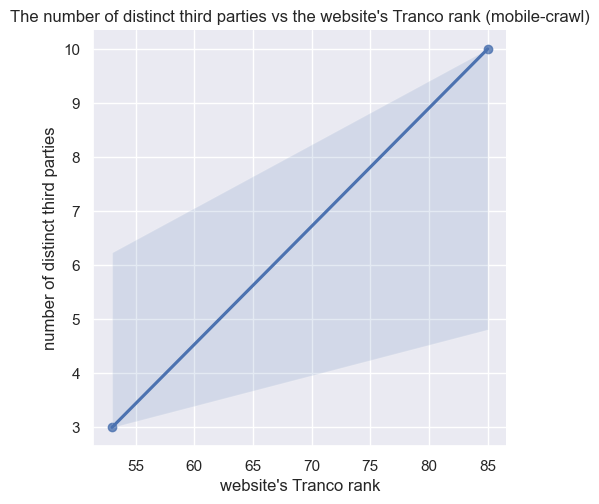
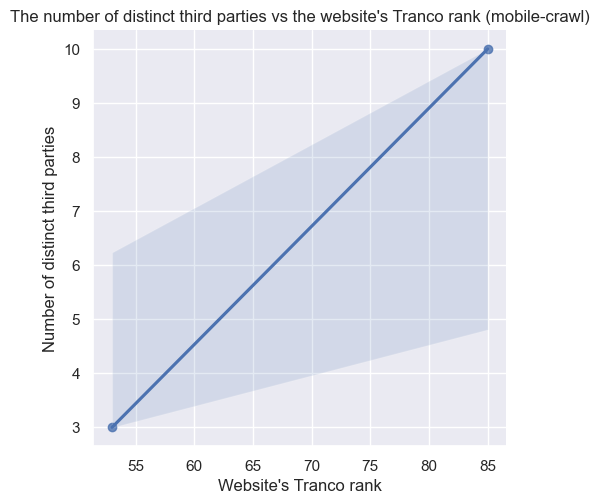
Add table for question 5, minor fixes for plots

Changed region(s): [[0.0601, 0.2381, 0.0902, 0.7143], [0.3606, 0.9524, 0.6311, 0.9821]]

diff --git a/analysis/analyse.py b/analysis/analyse.py
@@ -181,7 +181,8 @@ def generate_box_plot(dataframe, header, crawl_mode, metric):
     plt.xlabel("Crawl mode")
     plt.ylabel(metric.capitalize())
     plt.savefig(f"data/box_plot_{header}.png", bbox_inches='tight')
-    plt.show()
+    # plt.show()
+    plt.close()
 
 
 def generate_entry_table_question_3(dataframe, header):
@@ -330,8 +331,10 @@ def prevalence_third_party_trackers(prevalence_third_party):
     return third_party_trackers.most_common(10)
 
 
-def generate_table_question(questionnr, target, top_ten_desktop, top_ten_mobile):
-    """Generate a LaTeX table TODO
+def generate_table_question(questionnr, target, top_ten_desktop, top_ten_mobile, label=""):
+    """Generate a LaTeX table for questions 4, 5 and 6
+
+    TODO: change loop to range(10) -> currently len because otherwise errors occur :)
 
     Parameters
     ----------
@@ -363,14 +366,14 @@ def generate_table_question(questionnr, target, top_ten_desktop, top_ten_mobile)
         "\multicolumn{1}{l|}{\\textbf{%s}} & \\textbf{\# websites} \\\\ \hline \n" % (target.capitalize()))
 
     # Write the data of the top ten for both mobile and desktop to the table
-    for i in range(10):
+    for i in range(len(top_ten_desktop)):
         entry = ("\\textbf{%d} & \multicolumn{1}{l|}{%s} & " % (i + 1, top_ten_desktop[i][0]) +
                 "\multicolumn{1}{r|}{%d} & \multicolumn{1}{l|}{%s} & " % (top_ten_desktop[i][1], top_ten_mobile[i][0]) +
                 "\multicolumn{1}{r|}{%d} \\\\ \hline \n" % (top_ten_mobile[i][1]))
         file.write(entry)
 
     file.write("\end{tabular} \n")
-    file.write("\label{tab:Top10_q%d} \n" % (questionnr))
+    file.write("\label{tab:%sTop10} \n" % (re.sub(r'(Third-Party| Domain)', '', target.title())))
     file.write("\end{table}")
 
     # Close the file
@@ -405,12 +408,13 @@ def generate_scatter_plot(mode, third_parties_list, crawl_mode, tranco_ranks_lis
             y_axis.append(len(third_parties))
 
     df = pd.DataFrame(list(zip(x_axis, y_axis)),
-                      columns=["website's Tranco rank", plot_text])
-    sns.lmplot(x="website's Tranco rank", y=plot_text, data=df)
+                      columns=["Website's Tranco rank", plot_text])
+    sns.lmplot(x="Website's Tranco rank", y=plot_text, data=df)
 
-    plt.title(f"The {plot_text} vs the website's Tranco rank ({mode}-crawl)")
+    plt.title(f"The {plot_text.lower()} vs the website's Tranco rank ({mode}-crawl)")
     plt.savefig(f"data/scatter_plot_{png_text}_{mode}.png", bbox_inches='tight')
-    plt.show()  # use plt.show(block=True) if the window closes too soon
+    # plt.show()  # use plt.show(block=True) if the window closes too soon
+    plt.close()
 
 
 def generate_scatter_plots_question_7(dataframe):
@@ -421,8 +425,8 @@ def generate_scatter_plots_question_7(dataframe):
     crawl_mode = dataframe["crawl_mode"]
     tranco_ranks_list = list(dataframe["nr_requests"])
 
-    generate_scatter_plot("desktop", third_parties_list, crawl_mode, tranco_ranks_list, "third_parties", "number of distinct third parties")
-    generate_scatter_plot("mobile", third_parties_list, crawl_mode, tranco_ranks_list, "third_parties", "number of distinct third parties")
+    generate_scatter_plot("desktop", third_parties_list, crawl_mode, tranco_ranks_list, "third_parties", "Number of distinct third parties")
+    generate_scatter_plot("mobile", third_parties_list, crawl_mode, tranco_ranks_list, "third_parties", "Number of distinct third parties")
 
 
 def generate_scatter_plots_question_8(dataframe):
@@ -441,8 +445,8 @@ def generate_scatter_plots_question_8(dataframe):
         tracker_list[i].intersection_update(tracker_domains)
         tracker_list[i] = list(tracker_list[i])
 
-    generate_scatter_plot("desktop", tracker_list, crawl_mode, tranco_ranks_list, "trackers", "number of distinct trackers")
-    generate_scatter_plot("mobile", tracker_list, crawl_mode, tranco_ranks_list, "trackers", "number of distinct trackers")
+    generate_scatter_plot("desktop", tracker_list, crawl_mode, tranco_ranks_list, "trackers", "Number of distinct trackers")
+    generate_scatter_plot("mobile", tracker_list, crawl_mode, tranco_ranks_list, "trackers", "Number of distinct trackers")
 
 
 def main():
@@ -454,9 +458,14 @@ def main():
     generate_table_question_1()
     generate_box_plot(dataframe, "nr_requests", "crawl_mode", "number of requests")
     generate_table_question_3(dataframe, [("nr_requests", "Page load time(s)")])
-    top_ten_desktop = prevalence_third_party(dataframe, "desktop").most_common(10)
-    top_ten_mobile = prevalence_third_party(dataframe, "mobile").most_common(10)
+    prevalence_desktop = prevalence_third_party(dataframe, "desktop")
+    prevalence_mobile = prevalence_third_party(dataframe, "mobile")
+    top_ten_desktop = prevalence_desktop.most_common(10)
+    top_ten_mobile = prevalence_mobile.most_common(10)
     generate_table_question(4, "third-party domain", top_ten_desktop, top_ten_mobile)
+    top_ten_tracker_desktop = prevalence_third_party_trackers(prevalence_desktop)
+    top_ten_tracker_mobile = prevalence_third_party_trackers(prevalence_mobile)
+    generate_table_question(5, "tracker domain", top_ten_tracker_desktop, top_ten_tracker_mobile)
     generate_scatter_plots_question_7(dataframe)
     generate_scatter_plots_question_8(dataframe)
 
